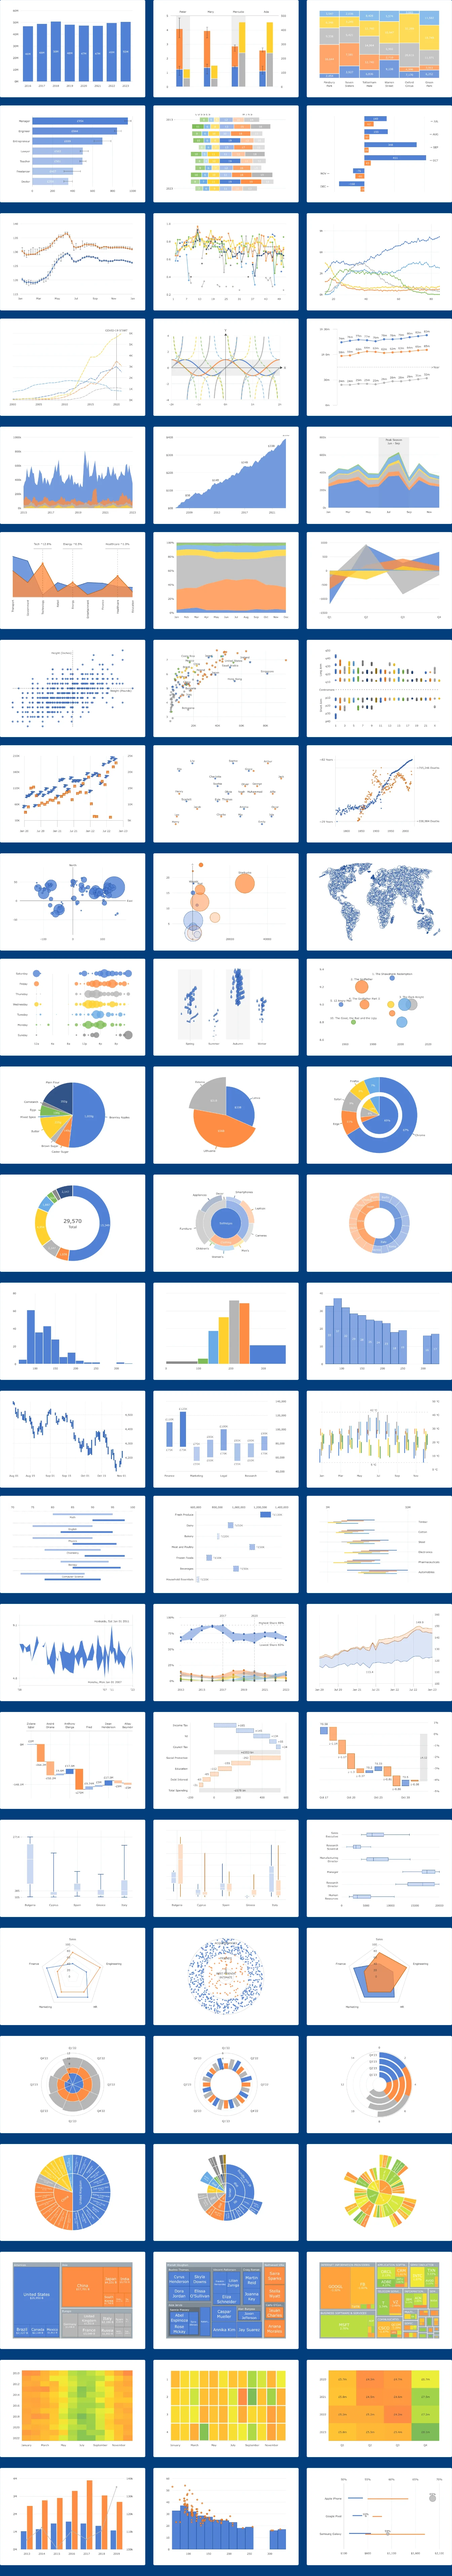
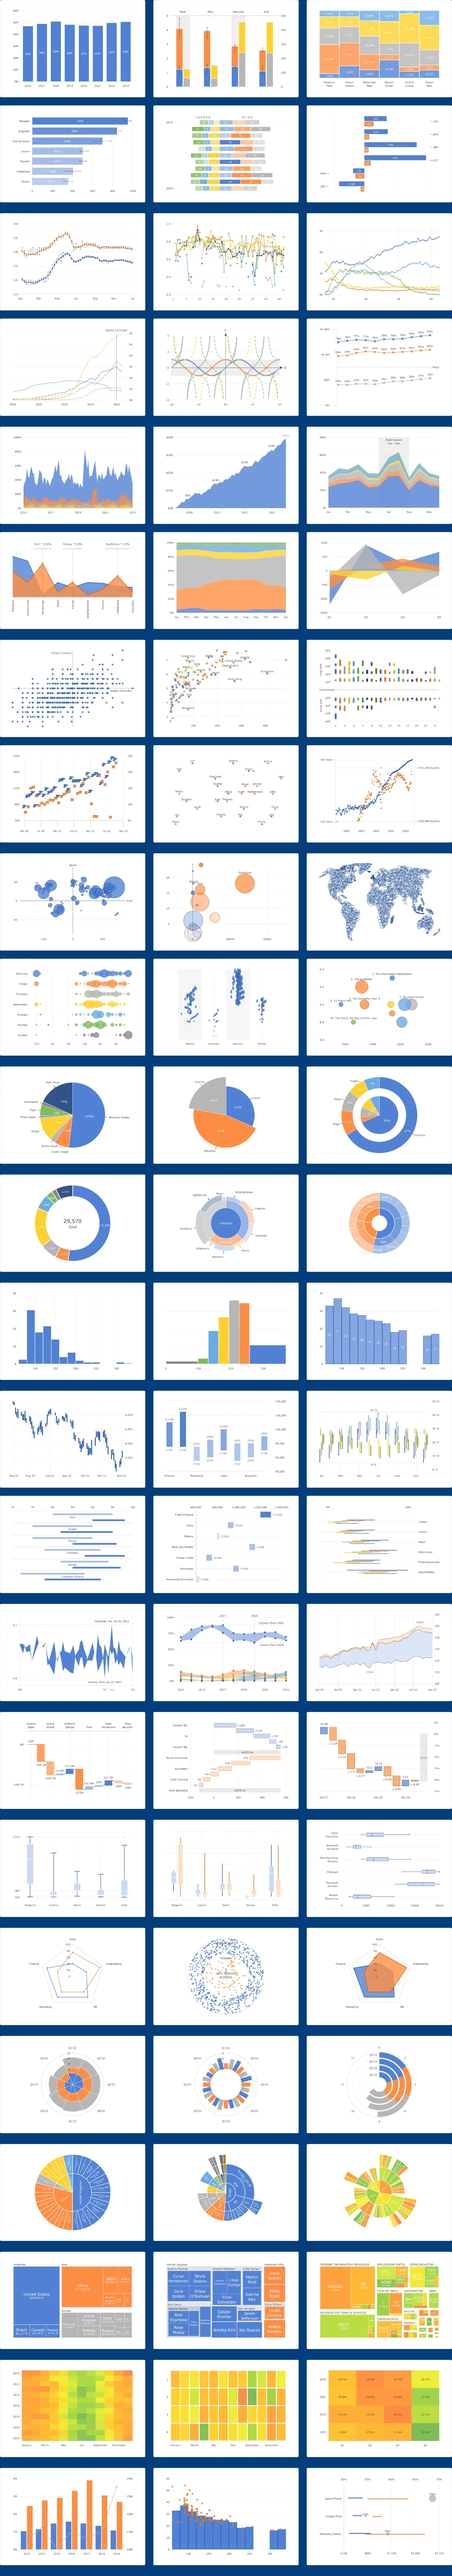
AG-3390 - Update homepage scrolling gallery images

diff --git a/packages/ag-charts-website/src/pages/homepage.module.scss b/packages/ag-charts-website/src/pages/homepage.module.scss
@@ -131,7 +131,7 @@
     background-image: url('../../images/homepage-scroll-light.webp');
     background-size: 100% auto;
     animation-name: scroll-hero;
-    animation-duration: 30s;
+    animation-duration: 120s;
     animation-iteration-count: infinite;
     animation-timing-function: linear;
 
@@ -168,7 +168,7 @@
     }
 
     @media screen and (min-width: $breakpoint-hero-large) {
-        aspect-ratio: 16/9;
+        width: 720px;
 
         &::before {
             display: none;
@@ -182,7 +182,7 @@
     }
 
     to {
-        background-position-y: -100%;
+        background-position-y: 500%;
     }
 }
 

diff --git a/packages/ag-charts-website/src/features/gallery/utils/transformPlainEntryFile.ts b/packages/ag-charts-website/src/features/gallery/utils/transformPlainEntryFile.ts
@@ -19,7 +19,7 @@ function transformer(sourceFile: string, dataFile?: string, themeName?: ThemeNam
 
     // Find and remove properties in the 'options' object
     // Add 'title' to remove titles for images for homepage scrolling hero
-    const propertiesToRemove = ['subtitle', 'footnote', 'legend', 'gradientLegend'];
+    const propertiesToRemove = ['subtitle', 'footnote', 'legend', 'gradientLegend', 'title'];
 
     optionsExpression.forEach((path) => {
         path.node.properties = filterPropertyKeys({
